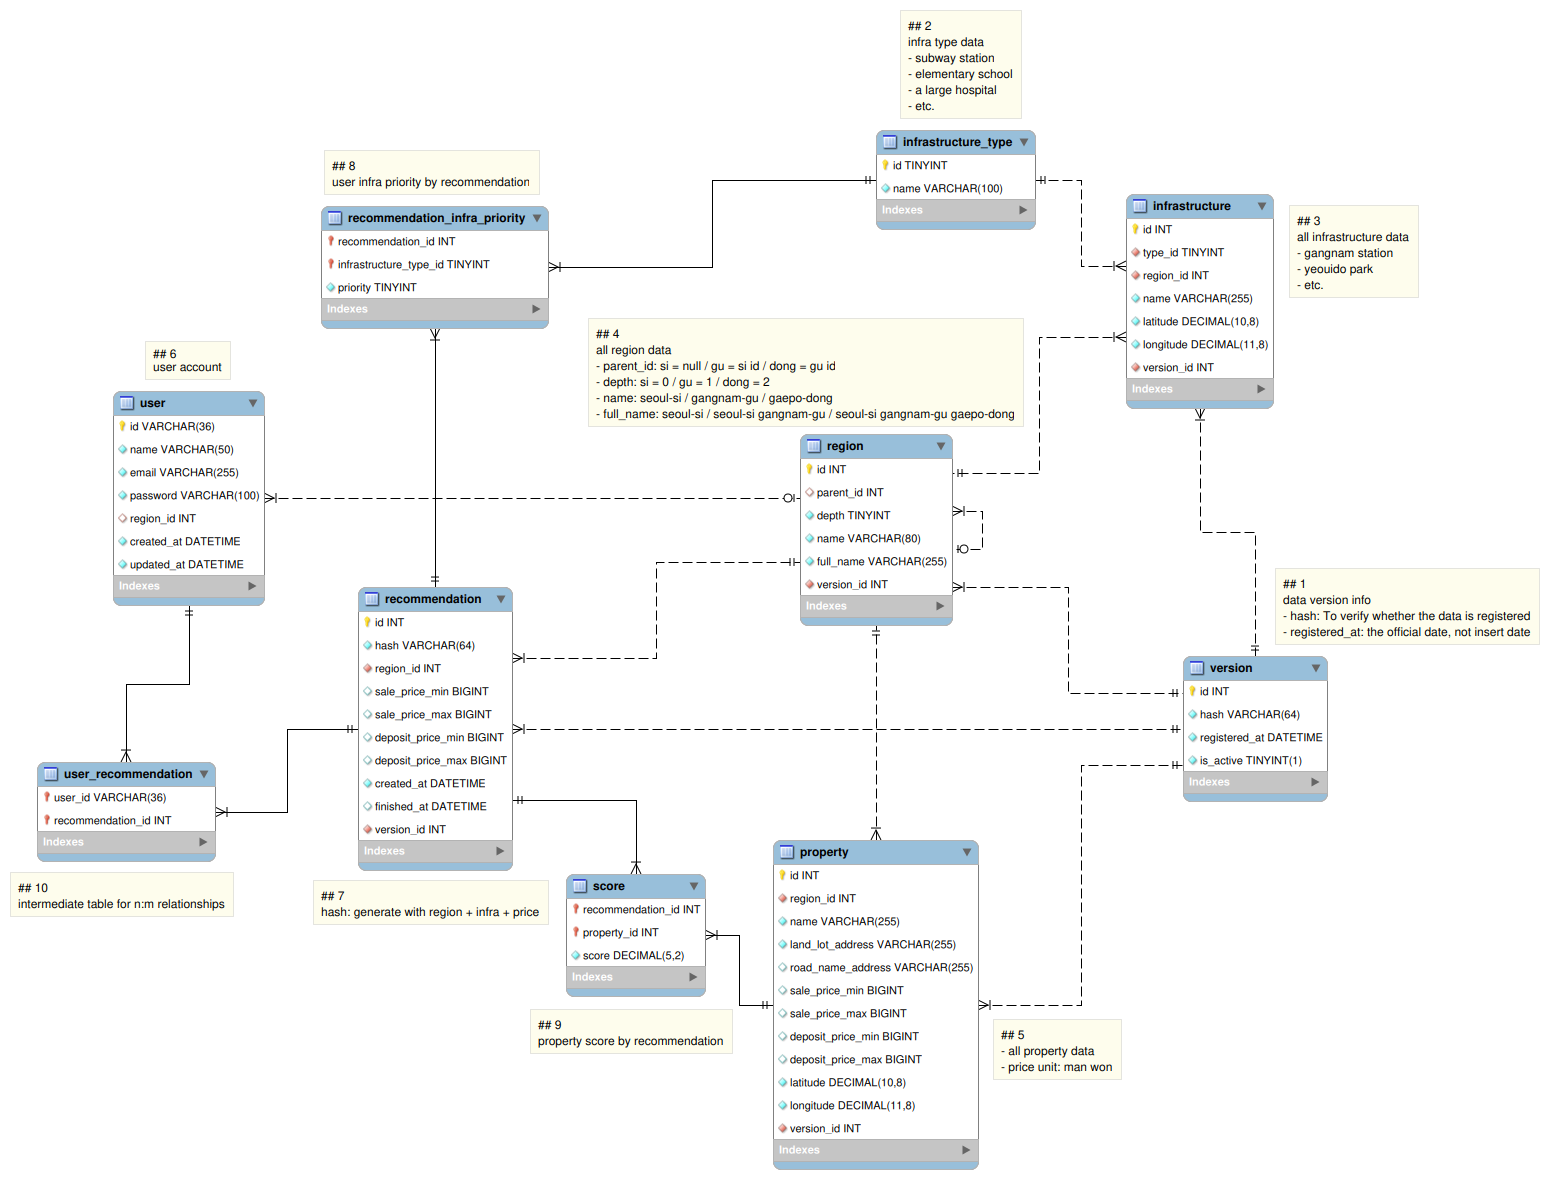
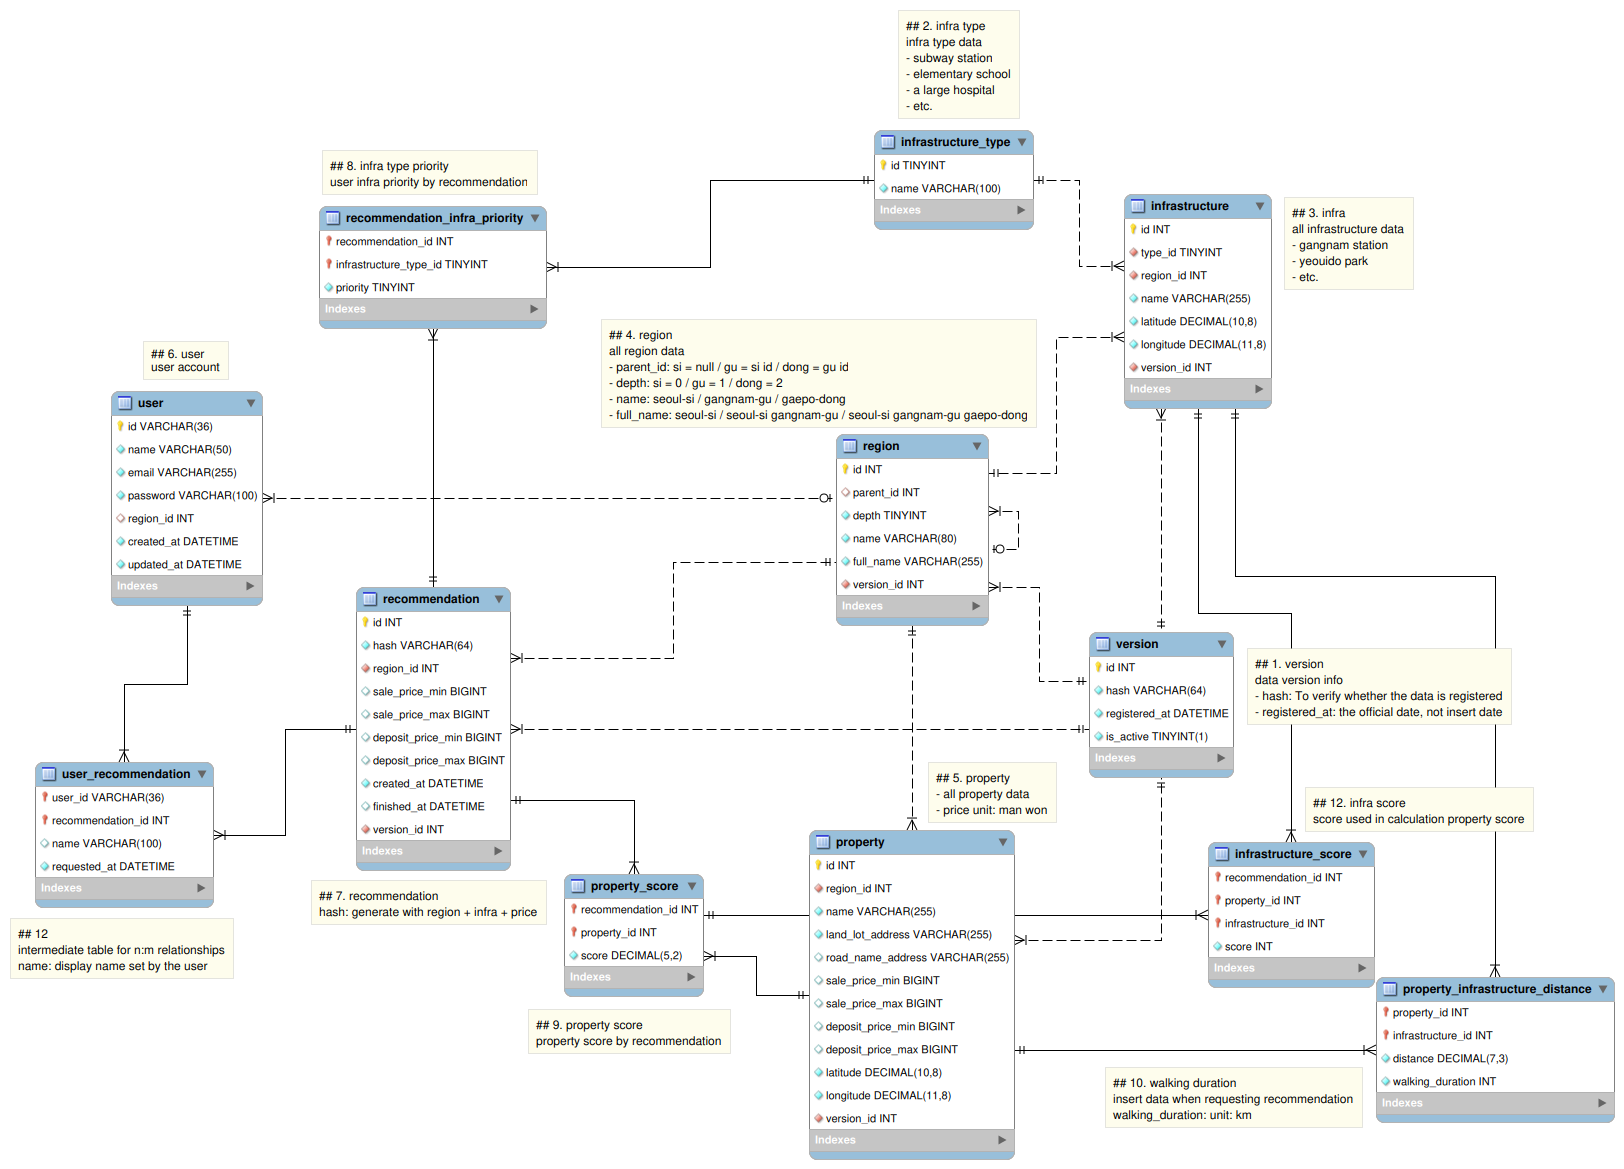
chore: 모델 및 필드 업데이트
- UserRecommendation 모델에 name, requested_at 필드 추가
- PropertyInfrastructureDistance, InfrastructureScore 모델 추가
  - 인프라 점수 및 매물과의 거리를 저장하기 위함
- Score 모델 PropertyScore로 변경
- UserRecommendation 테이블명 수정
- ondelete/onupdate 및 cascade 구성

diff --git a/app/models/infrastructure_score.py b/app/models/infrastructure_score.py
@@ -1,0 +1,41 @@
+from typing import TYPE_CHECKING
+from sqlalchemy import Column, ForeignKey, ForeignKeyConstraint
+from sqlalchemy.dialects.mysql import INTEGER, DECIMAL
+from sqlalchemy.orm import Mapped, relationship
+
+from .base import Base
+
+
+if TYPE_CHECKING:
+    from . import Infrastructure, PropertyScore
+
+class InfrastructureScore(Base):
+    """
+    추천-인프라 점수 모델
+    - recommendation_id: 추천 ID (foreign key)
+    - property_id: 부동산 ID (foreign key)
+    - infrastructure_id: 인프라 ID (foreign key)
+    - score: 해당 추천-인프라 조합에 대한 점수 (0~100 사이의 소수점 2자리)
+
+    - property_score: 추천-부동산 점수 정보
+    - infrastructure: 인프라 정보
+    """
+
+    __tablename__ = "infrastructure_score"
+
+    __table_args__ = (
+        ForeignKeyConstraint(
+            ["recommendation_id", "property_id"],
+            ["property_score.recommendation_id", "property_score.property_id"],
+            ondelete="CASCADE",
+            onupdate="CASCADE",
+        ),
+    )
+
+    recommendation_id = Column(INTEGER(unsigned=True), primary_key=True)
+    property_id = Column(INTEGER(unsigned=True), primary_key=True)
+    infrastructure_id = Column(INTEGER(unsigned=True), ForeignKey("infrastructure.id", ondelete="CASCADE", onupdate="CASCADE"), primary_key=True)
+    score = Column(DECIMAL(5, 2, unsigned=True), nullable=False)
+
+    property_score: Mapped["PropertyScore"] = relationship("PropertyScore", back_populates="infrastructure_scores")
+    infrastructure: Mapped["Infrastructure"] = relationship("Infrastructure", back_populates="infrastructure_scores")

diff --git a/app/models/property_infrastructure_distance.py b/app/models/property_infrastructure_distance.py
@@ -1,0 +1,32 @@
+from typing import TYPE_CHECKING
+from sqlalchemy import Column, ForeignKey
+from sqlalchemy.dialects.mysql import INTEGER, DECIMAL
+from sqlalchemy.orm import Mapped, relationship
+
+from .base import Base
+
+
+if TYPE_CHECKING:
+    from . import Property, Infrastructure
+
+class PropertyInfrastructureDistance(Base):
+    """
+    부동산-인프라 간 거리 모델
+    - property_id: 부동산 ID (foreign key)
+    - infrastructure_id: 인프라 ID (foreign key)
+    - distance: 부동산과 인프라 간의 거리 (km 단위)
+    - walking_duration: 도보 이동 시간 (분 단위)
+
+    - property: 부동산 정보
+    - infrastructure: 인프라 정보
+    """
+
+    __tablename__ = "property_infrastructure_distance"
+
+    property_id = Column(INTEGER(unsigned=True), ForeignKey("property.id", ondelete="CASCADE", onupdate="CASCADE"), primary_key=True)
+    infrastructure_id = Column(INTEGER(unsigned=True), ForeignKey("infrastructure.id", ondelete="CASCADE", onupdate="CASCADE"), primary_key=True)
+    distance = Column(DECIMAL(7, 3), nullable=False)
+    walking_duration = Column(INTEGER(unsigned=True), nullable=False)
+
+    property: Mapped["Property"] = relationship("Property", back_populates="infrastructure_distances")
+    infrastructure: Mapped["Infrastructure"] = relationship("Infrastructure", back_populates="property_distances")

diff --git a/app/models/property_score.py b/app/models/property_score.py
@@ -1,0 +1,32 @@
+from typing import TYPE_CHECKING
+from sqlalchemy import Column, ForeignKey
+from sqlalchemy.dialects.mysql import INTEGER, DECIMAL
+from sqlalchemy.orm import Mapped, relationship
+
+from .base import Base
+
+
+if TYPE_CHECKING:
+    from . import Recommendation, Property, InfrastructureScore
+
+class PropertyScore(Base):
+    """
+    추천-부동산 점수 모델
+    - recommendation_id: 추천 ID (foreign key)
+    - property_id: 부동산 ID (foreign key)
+    - score: 해당 추천-부동산 조합에 대한 점수 (0~100 사이의 소수점 2자리)
+
+    - recommendation: 추천 정보
+    - property: 부동산 정보
+    - infrastructure_scores: 점수 계산에 사용된 인프라 점수 목록
+    """
+
+    __tablename__ = "property_score"
+
+    recommendation_id = Column(INTEGER(unsigned=True), ForeignKey("recommendation.id", ondelete="CASCADE", onupdate="CASCADE"), primary_key=True)
+    property_id = Column(INTEGER(unsigned=True), ForeignKey("property.id", ondelete="CASCADE", onupdate="CASCADE"), primary_key=True)
+    score = Column(DECIMAL(5, 2, unsigned=True), nullable=False)
+
+    recommendation: Mapped["Recommendation"] = relationship("Recommendation", back_populates="property_scores")
+    property: Mapped["Property"] = relationship("Property", back_populates="recommendation_entries")
+    infrastructure_scores: Mapped[list["InfrastructureScore"]] = relationship("InfrastructureScore", back_populates="property_score", cascade="all, delete-orphan")

diff --git a/app/models/recommendation.py b/app/models/recommendation.py
@@ -8,7 +8,7 @@ from .base import Base
 
 
 if TYPE_CHECKING:
-    from . import Region, RecommendationInfraPriority, Score, UserRecommendation, Version
+    from . import Region, RecommendationInfraPriority, PropertyScore, UserRecommendation, Version
 
 class Recommendation(Base):
     """
@@ -26,7 +26,7 @@ class Recommendation(Base):
 
     - region: 동네 정보
     - infra_priorities: 추천 요청 시 선택한 인프라 우선순위 목록
-    - scores: 해당 추천 결과인 부동산에 대한 점수 목록
+    - property_scores: 해당 추천 결과인 부동산에 대한 점수 목록
     - request_users: 해당 조합으로 추천을 요청한 사용자 목록
     - version: 버전 정보
     """
@@ -35,17 +35,17 @@ class Recommendation(Base):
 
     id = Column(INTEGER(unsigned=True), primary_key=True, index=True)
     hash = Column(String(64), nullable=False, unique=True)
-    region_id = Column(INTEGER(unsigned=True), ForeignKey("region.id"), nullable=False)
+    region_id = Column(INTEGER(unsigned=True), ForeignKey("region.id", ondelete="CASCADE", onupdate="CASCADE"), nullable=False)
     sale_price_min = Column(BIGINT(unsigned=True))
     sale_price_max = Column(BIGINT(unsigned=True))
     deposit_price_min = Column(BIGINT(unsigned=True))
     deposit_price_max = Column(BIGINT(unsigned=True))
     created_at = Column(DateTime, nullable=False, default=func.now())
     finished_at = Column(DateTime)
-    version_id = Column(INTEGER(unsigned=True), ForeignKey("version.id"), nullable=False)
+    version_id = Column(INTEGER(unsigned=True), ForeignKey("version.id", ondelete="RESTRICT", onupdate="CASCADE"), nullable=False)
 
     region: Mapped["Region"] = relationship("Region", back_populates="recommendations")
-    infra_priorities: Mapped[list["RecommendationInfraPriority"]] = relationship("RecommendationInfraPriority", back_populates="recommendation")
-    scores: Mapped[list["Score"]] = relationship("Score", back_populates="recommendation")
-    request_users: Mapped[list["UserRecommendation"]] = relationship("UserRecommendation", back_populates="recommendation")
+    infra_priorities: Mapped[list["RecommendationInfraPriority"]] = relationship("RecommendationInfraPriority", back_populates="recommendation", cascade="all, delete-orphan")
+    property_scores: Mapped[list["PropertyScore"]] = relationship("PropertyScore", back_populates="recommendation", cascade="all, delete-orphan")
+    request_users: Mapped[list["UserRecommendation"]] = relationship("UserRecommendation", back_populates="recommendation", cascade="all, delete-orphan")
     version: Mapped["Version"] = relationship("Version", back_populates="recommendations")

diff --git a/app/models/region.py b/app/models/region.py
@@ -31,18 +31,18 @@ class Region(Base):
     __tablename__ = "region"
 
     id = Column(INTEGER(unsigned=True), primary_key=True, index=True)
-    parent_id = Column(INTEGER(unsigned=True), ForeignKey("region.id"), nullable=True)
+    parent_id = Column(INTEGER(unsigned=True), ForeignKey("region.id", ondelete="CASCADE", onupdate="CASCADE"), nullable=True)
     depth = Column(TINYINT(unsigned=True), nullable=False)
     name = Column(String(80), nullable=False)
     full_name = Column(String(255), nullable=False)
-    version_id = Column(INTEGER(unsigned=True), ForeignKey("version.id"), nullable=False)
+    version_id = Column(INTEGER(unsigned=True), ForeignKey("version.id", ondelete="RESTRICT", onupdate="CASCADE"), nullable=False)
 
     parent: Mapped["Region"] = relationship("Region", remote_side=[id], back_populates="children")
-    children: Mapped[list["Region"]] = relationship("Region", back_populates="parent")
-    properties: Mapped[list["Property"]] = relationship("Property", back_populates="region")
-    infrastructures: Mapped[list["Infrastructure"]] = relationship("Infrastructure", back_populates="region")
-    users: Mapped[list["User"]] = relationship("User", back_populates="region")
-    recommendations: Mapped[list["Recommendation"]] = relationship("Recommendation", back_populates="region")
+    children: Mapped[list["Region"]] = relationship("Region", back_populates="parent", cascade="all, delete-orphan")
+    properties: Mapped[list["Property"]] = relationship("Property", back_populates="region", cascade="all, delete-orphan")
+    infrastructures: Mapped[list["Infrastructure"]] = relationship("Infrastructure", back_populates="region", cascade="all, delete-orphan")
+    users: Mapped[list["User"]] = relationship("User", back_populates="region", cascade="save-update, merge")
+    recommendations: Mapped[list["Recommendation"]] = relationship("Recommendation", back_populates="region", cascade="all, delete-orphan")
     version: Mapped["Version"] = relationship("Version", back_populates="regions")
 
     def to_dict(self):

diff --git a/app/models/user_recommendation.py b/app/models/user_recommendation.py
@@ -1,7 +1,8 @@
 from typing import TYPE_CHECKING
-from sqlalchemy import Column, ForeignKey, String
+from sqlalchemy import Column, ForeignKey, DateTime, String
 from sqlalchemy.dialects.mysql import INTEGER
 from sqlalchemy.orm import Mapped, relationship
+from sqlalchemy.sql import func
 
 from .base import Base
 
@@ -14,15 +15,19 @@ class UserRecommendation(Base):
     사용자-추천 매핑 모델
     - user_id: 사용자 ID (foreign key)
     - recommendation_id: 추천 ID (foreign key)
+    - name: 사용자가 해당 추천 조합에 대해 지정한 이름 (예: "내 첫 번째 추천")
+    - requested_at: 사용자가 해당 추천을 요청한 시간
 
     - user: 사용자 정보
     - recommendation: 추천 정보
     """
 
-    __tablename__ = "user_has_recommendation"
+    __tablename__ = "user_recommendation"
 
-    user_id = Column(String(36), ForeignKey("user.id"), primary_key=True)
-    recommendation_id = Column(INTEGER(unsigned=True), ForeignKey("recommendation.id"), primary_key=True)
+    user_id = Column(String(36), ForeignKey("user.id", ondelete="CASCADE", onupdate="CASCADE"), primary_key=True)
+    recommendation_id = Column(INTEGER(unsigned=True), ForeignKey("recommendation.id", ondelete="CASCADE", onupdate="CASCADE"), primary_key=True)
+    name = Column(String(100))
+    requested_at = Column(DateTime, nullable=False, default=func.now())
 
     user: Mapped["User"] = relationship("User", back_populates="recommendations")
     recommendation: Mapped["Recommendation"] = relationship("Recommendation", back_populates="request_users")

diff --git a/app/models/infrastructure.py b/app/models/infrastructure.py
@@ -7,7 +7,7 @@ from .base import Base
 
 
 if TYPE_CHECKING:
-    from . import InfrastructureType, Region, Version
+    from . import InfrastructureType, Region, PropertyInfrastructureDistance, InfrastructureScore, Version
 
 class Infrastructure(Base):
     """
@@ -22,21 +22,25 @@ class Infrastructure(Base):
 
     - type: 인프라 유형 정보
     - region: 동네 정보
+    - property_distances: 해당 인프라와 부동산 간의 거리 정보 목록
+    - infrastructure_scores: 추천 시 계산된 인프라의 점수 목록
     - version: 버전 정보
     """
 
     __tablename__ = "infrastructure"
 
     id = Column(INTEGER(unsigned=True), primary_key=True, index=True)
-    type_id = Column(TINYINT(unsigned=True), ForeignKey("infrastructure_type.id"), nullable=False)
-    region_id = Column(INTEGER(unsigned=True), ForeignKey("region.id"), nullable=False)
+    type_id = Column(TINYINT(unsigned=True), ForeignKey("infrastructure_type.id", ondelete="CASCADE", onupdate="CASCADE"), nullable=False)
+    region_id = Column(INTEGER(unsigned=True), ForeignKey("region.id", ondelete="CASCADE", onupdate="CASCADE"), nullable=False)
     name = Column(String(255), nullable=False)
     latitude = Column(Numeric(10, 8), nullable=False)
     longitude = Column(Numeric(11, 8), nullable=False)
-    version_id = Column(INTEGER(unsigned=True), ForeignKey("version.id"), nullable=False)
+    version_id = Column(INTEGER(unsigned=True), ForeignKey("version.id", ondelete="RESTRICT", onupdate="CASCADE"), nullable=False)
 
     type: Mapped["InfrastructureType"] = relationship("InfrastructureType", back_populates="infrastructures")
     region: Mapped["Region"] = relationship("Region", back_populates="infrastructures")
+    property_distances: Mapped[list["PropertyInfrastructureDistance"]] = relationship("PropertyInfrastructureDistance", back_populates="infrastructure", cascade="all, delete-orphan")
+    infrastructure_scores: Mapped[list["InfrastructureScore"]] = relationship("InfrastructureScore", back_populates="infrastructure", cascade="all, delete-orphan")
     version: Mapped["Version"] = relationship("Version", back_populates="infrastructures")
 
     def to_dict(self):

diff --git a/app/models/property.py b/app/models/property.py
@@ -7,7 +7,7 @@ from .base import Base
 
 
 if TYPE_CHECKING:
-    from . import Region, Score, Version
+    from . import Region, PropertyScore, PropertyInfrastructureDistance, Version
 
 class Property(Base):
     """
@@ -27,13 +27,14 @@ class Property(Base):
 
     - region: 동네 정보
     - recommendation_entries: 해당 부동산이 포함된 추천 항목 목록
+    - infrastructure_distances: 해당 부동산과 인프라 간의 거리 정보 목록
     - version: 버전 정보
     """
 
     __tablename__ = "property"
 
     id = Column(INTEGER(unsigned=True), primary_key=True, index=True)
-    region_id = Column(INTEGER(unsigned=True), ForeignKey("region.id"), nullable=False)
+    region_id = Column(INTEGER(unsigned=True), ForeignKey("region.id", ondelete="CASCADE", onupdate="CASCADE"), nullable=False)
     name = Column(String(255), nullable=False)
     land_lot_address = Column(String(255), nullable=False)
     road_name_address = Column(String(255), nullable=True)
@@ -43,8 +44,9 @@ class Property(Base):
     deposit_price_max = Column(BIGINT(unsigned=True))
     latitude = Column(Numeric(10, 8), nullable=False)
     longitude = Column(Numeric(11, 8), nullable=False)
-    version_id = Column(INTEGER(unsigned=True), ForeignKey("version.id"), nullable=False)
+    version_id = Column(INTEGER(unsigned=True), ForeignKey("version.id", ondelete="RESTRICT", onupdate="CASCADE"), nullable=False)
 
     region: Mapped["Region"] = relationship("Region", back_populates="properties")
-    recommendation_entries: Mapped[list["Score"]] = relationship("Score", back_populates="property")
+    recommendation_entries: Mapped[list["PropertyScore"]] = relationship("PropertyScore", back_populates="property", cascade="all, delete-orphan")
+    infrastructure_distances: Mapped[list["PropertyInfrastructureDistance"]] = relationship("PropertyInfrastructureDistance", back_populates="property", cascade="all, delete-orphan")
     version: Mapped["Version"] = relationship("Version", back_populates="properties")

diff --git a/app/models/version.py b/app/models/version.py
@@ -34,7 +34,7 @@ class Version(Base):
     registered_at = Column(DateTime, nullable=False, default=func.now())
     is_active = Column(Boolean, nullable=False, default=True)
 
-    regions: Mapped[list["Region"]] = relationship("Region", back_populates="version")
-    properties: Mapped[list["Property"]] = relationship("Property", back_populates="version")
-    infrastructures: Mapped[list["Infrastructure"]] = relationship("Infrastructure", back_populates="version")
-    recommendations: Mapped[list["Recommendation"]] = relationship("Recommendation", back_populates="version")
+    regions: Mapped[list["Region"]] = relationship("Region", back_populates="version", cascade="save-update, merge")
+    properties: Mapped[list["Property"]] = relationship("Property", back_populates="version", cascade="save-update, merge")
+    infrastructures: Mapped[list["Infrastructure"]] = relationship("Infrastructure", back_populates="version", cascade="save-update, merge")
+    recommendations: Mapped[list["Recommendation"]] = relationship("Recommendation", back_populates="version", cascade="save-update, merge")

diff --git a/app/models/__init__.py b/app/models/__init__.py
@@ -6,6 +6,8 @@ from .infrastructure_type import InfrastructureType
 from .infrastructure import Infrastructure
 from .recommendation import Recommendation
 from .recommendation_infra_priority import RecommendationInfraPriority
-from .score import Score
+from .property_score import PropertyScore
+from .infrastructure_score import InfrastructureScore
+from .property_infrastructure_distance import PropertyInfrastructureDistance
 from .user import User
 from .user_recommendation import UserRecommendation

diff --git a/app/models/infrastructure_type.py b/app/models/infrastructure_type.py
@@ -24,8 +24,8 @@ class InfrastructureType(Base):
     id = Column(TINYINT(unsigned=True), primary_key=True, index=True)
     name = Column(String(100), nullable=False, unique=True)
 
-    infrastructures: Mapped[list["Infrastructure"]] = relationship("Infrastructure", back_populates="type")
-    usage_in_recommendations: Mapped[list["RecommendationInfraPriority"]] = relationship("RecommendationInfraPriority", back_populates="infrastructure_type")
+    infrastructures: Mapped[list["Infrastructure"]] = relationship("Infrastructure", back_populates="type", cascade="all, delete-orphan")
+    usage_in_recommendations: Mapped[list["RecommendationInfraPriority"]] = relationship("RecommendationInfraPriority", back_populates="infrastructure_type", cascade="all, delete-orphan")
 
     def to_dict(self):
         """응답용 데이터로 변환 및 반환"""

diff --git a/app/models/recommendation_infra_priority.py b/app/models/recommendation_infra_priority.py
@@ -22,8 +22,8 @@ class RecommendationInfraPriority(Base):
 
     __tablename__ = "recommendation_infra_priority"
 
-    recommendation_id = Column(INTEGER(unsigned=True), ForeignKey("recommendation.id"), primary_key=True)
-    infrastructure_type_id = Column(TINYINT(unsigned=True), ForeignKey("infrastructure_type.id"), primary_key=True)
+    recommendation_id = Column(INTEGER(unsigned=True), ForeignKey("recommendation.id", ondelete="CASCADE", onupdate="CASCADE"), primary_key=True)
+    infrastructure_type_id = Column(TINYINT(unsigned=True), ForeignKey("infrastructure_type.id", ondelete="CASCADE", onupdate="CASCADE"), primary_key=True)
     priority = Column(TINYINT(unsigned=True), nullable=False)
 
     recommendation: Mapped["Recommendation"] = relationship("Recommendation", back_populates="infra_priorities")